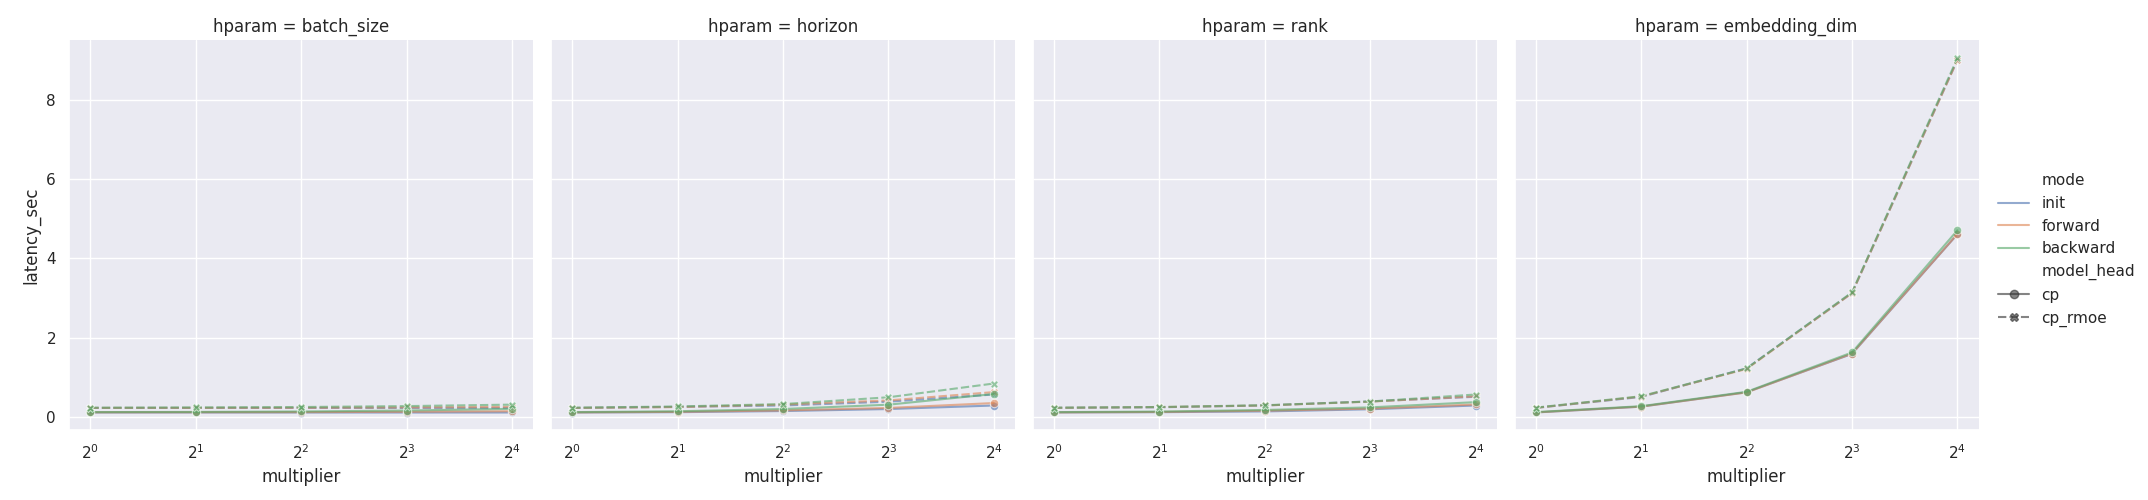
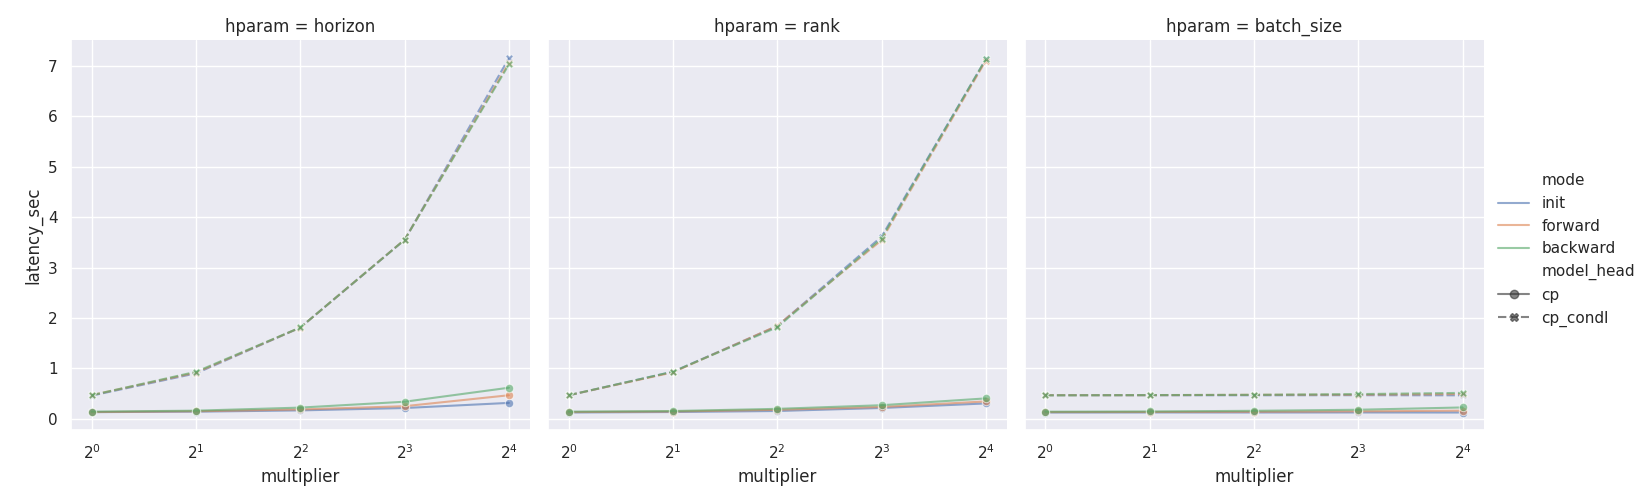
Bugfix: comment out decoder

diff --git a/scripts/plot_mhead_memory.py b/scripts/plot_mhead_memory.py
@@ -60,7 +60,7 @@ def main():
     max_exps = {
         "horizon": 5,
         "rank": 5,
-        "embedding_dim": 5,
+        # "embedding_dim": 2,
         "batch_size": 5,
     }
 
@@ -73,10 +73,9 @@ def main():
 
     kwargs = []
     for mode in ["init", "forward", "backward"]:
-        for head in ["cp", "cp_rmoe"]:
-            for hparam in ["batch_size", "horizon", "rank", "embedding_dim"]:
-                T = max_exps[hparam]
-                for i in range(T):
+        for head in ["cp", "cp_condl"]:
+            for hparam, max_exp in max_exps.items():
+                for i in range(max_exp):
                     kwargs.append(
                         {
                             **defaults,
@@ -90,11 +89,13 @@ def main():
 
     # Compute memory
     device = "cuda" if torch.cuda.is_available() else "cpu"
-    for conf in tqdm(kwargs, desc="Running forward pass"):
+    pbar = tqdm(kwargs, desc="Running forward pass")
+    for conf in pbar:
         memory_mb = get_peak_memory_usage(train_fn, device=device, **conf)
         latency_sec = get_latency(train_fn, device=device, **conf)
         conf["memory_mb"] = memory_mb
         conf["latency_sec"] = latency_sec
+        pbar.set_postfix({"model_head": conf["model_head"]})
 
     df = pd.DataFrame(kwargs)
     sns.relplot(

diff --git a/scripts/plot_mhead_stability.py b/scripts/plot_mhead_stability.py
@@ -71,7 +71,7 @@ def main():
     configs = []
 
     # add cp configs
-    for model_head, rank in itertools.product(["cp"], range_exp(1, 6)):
+    for model_head, rank in itertools.product(["cp", "cp_cond", "cp_condl"], [1]):
         configs.append(
             {
                 "model_head": model_head,
@@ -83,23 +83,23 @@ def main():
             }
         )
 
-    # # add multihead config
-    # configs.append(
-    #     {
-    #         "model_head": "multihead",
-    #         "model_head_kwargs": {**model_hparams},
-    #         "rank": 1,
-    #     }
-    # )
+    # add multihead config
+    configs.append(
+        {
+            "model_head": "multihead",
+            "model_head_kwargs": {**model_hparams},
+            "rank": 1,
+        }
+    )
 
-    # # add dummy dist
-    # configs.append(
-    #     {
-    #         "model_head": "dummy",
-    #         "model_head_kwargs": {**model_hparams},
-    #         "rank": 1,
-    #     }
-    # )
+    # add dummy dist
+    configs.append(
+        {
+            "model_head": "dummy",
+            "model_head_kwargs": {**model_hparams},
+            "rank": 1,
+        }
+    )
 
     # create synthetic data
     train_ds = torch.utils.data.TensorDataset(

diff --git a/tests/misc.py b/tests/misc.py
@@ -1,0 +1,27 @@
+import unittest
+from tjdnet.tensorops.cp import select_margin_cp_tensor_batched
+import torch
+
+from tjdnet.distributions._tjdist import BaseDistConfig
+from tjdnet.distributions.cp import CPDist
+import tntorch as tn
+
+# from tjdnet.distributions.tpnet import TensorParamNetConfig
+
+
+class TestLemmas(unittest.TestCase):
+    def test_case_1(self):
+        D, R, V = 10, 2, 5
+        b = torch.randn(R, D)
+        e = torch.randn(D, V)
+
+        a = torch.einsum("rd,dv->rv", b, e)
+
+        y1 = torch.log_softmax(a, dim=-1)
+        y2 = a - torch.logsumexp(a, dim=-1, keepdim=True)
+
+        self.assertTrue(torch.allclose(y1, y2))
+
+
+if __name__ == "__main__":
+    unittest.main()

diff --git a/tjdnet/distributions/cp_condl.py b/tjdnet/distributions/cp_condl.py
@@ -37,7 +37,7 @@ class CPCondl(AbstractDist):
         # === params
         self.w_alpha = torch.nn.Linear(D, R)
         self.w_cp = torch.nn.Linear(D, H * R * V)
-        self.decoder = torch.nn.Parameter(torch.randn(D, V))  # (d, V)
+        # self.decoder = torch.nn.Parameter(torch.randn(D, V))  # (d, V)
 
     @classmethod
     def from_pretrained(cls, linear: torch.nn.Linear, config: BaseDistFromLinearConfig):
